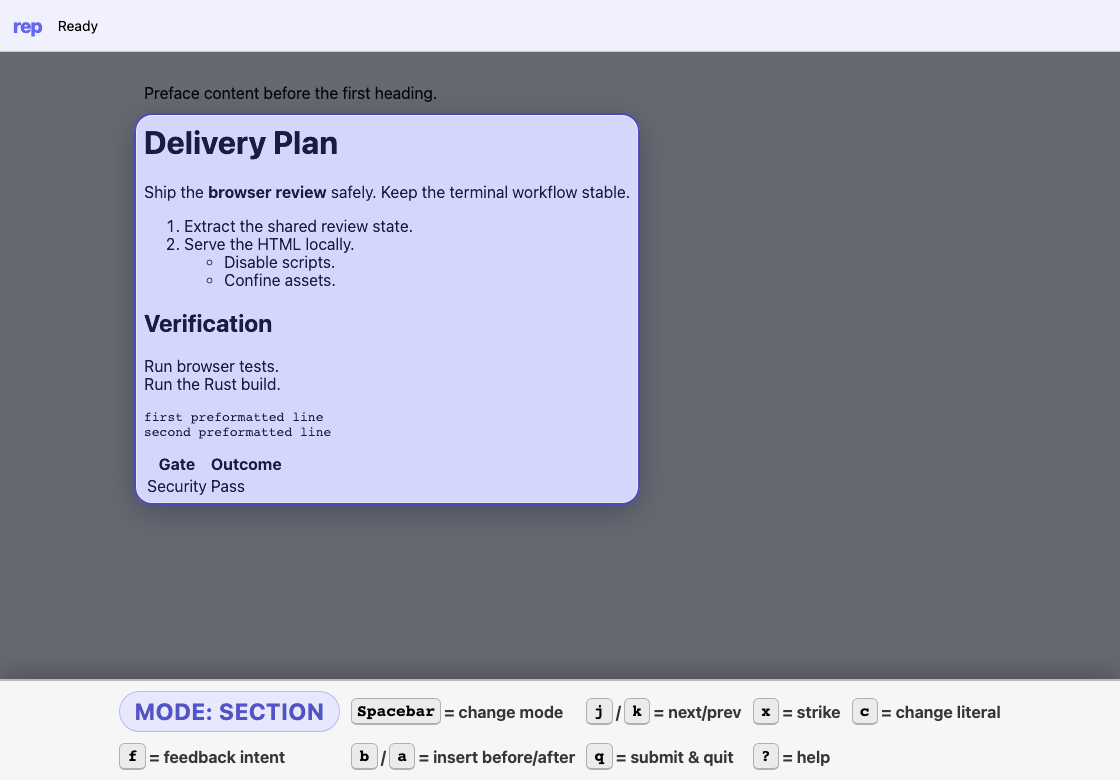
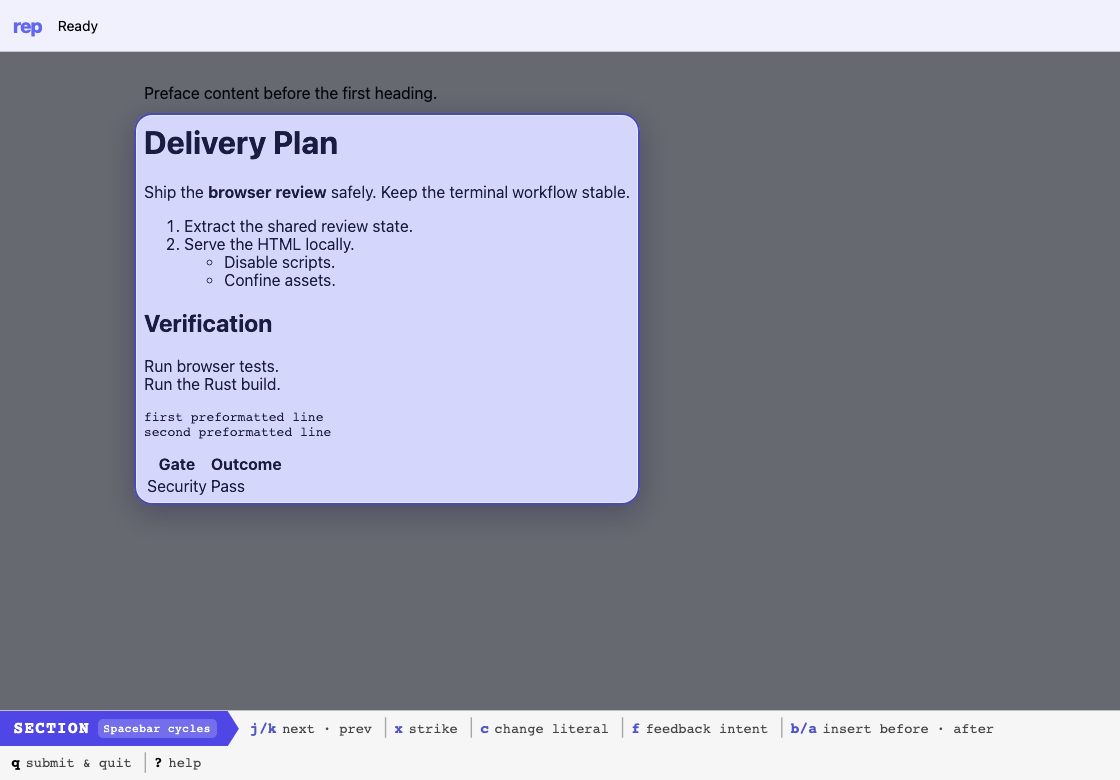
Ship the vi statusline review bar
Replace the review HUD's centred chip grid with design option 03: a
monospace statusline whose solid mode block carries a chevron and the
Spacebar cycle hint, followed by pipe-separated key segments with the
session keys pushed right by a flex spacer.

The mode block recolours per selection unit via a --mode-color token
driven by #review-hud[data-mode], which app.js now mirrors alongside the
mode name. #mode keeps a visually hidden "Mode: " prefix so the polite
live region still announces the full phrase while the block shows only
the unit.

Under 38rem the block goes full width and the segments fall into two
columns. Browser tests move to the new command strings and type floors,
gain mode-colour coverage, and the committed gallery screenshots are
refreshed.

Changed region(s): [[0.0, 0.8615, 1.0, 1.0]]

diff --git a/src/web/app.css b/src/web/app.css
@@ -43,18 +43,20 @@ body {
 }
 
 .mode {
-  background: color-mix(in srgb, #6366f1 15%, Canvas);
-  border: 1px solid color-mix(in srgb, #6366f1 38%, transparent);
-  border-radius: 999px;
-  color: color-mix(in srgb, #6366f1 82%, CanvasText);
-  display: inline-flex;
-  flex: none;
-  font-size: 1.44rem;
+  font-size: 1rem;
   font-weight: 700;
-  letter-spacing: .04em;
+  letter-spacing: .08em;
   line-height: 1.2;
-  padding: .36rem .9rem;
   text-transform: uppercase;
+}
+
+.visually-hidden {
+  clip-path: inset(50%);
+  height: 1px;
+  overflow: hidden;
+  position: absolute;
+  white-space: nowrap;
+  width: 1px;
 }
 
 .status {
@@ -196,25 +198,51 @@ iframe.empty {
 }
 
 .review-hud {
-  align-items: center;
+  --mode-color: #57534e;
+  align-items: stretch;
   backdrop-filter: blur(16px);
   background: color-mix(in srgb, Canvas 94%, transparent);
-  border-top: 2px solid color-mix(in srgb, CanvasText 24%, transparent);
+  border-top: 1px solid color-mix(in srgb, CanvasText 22%, transparent);
   bottom: 0;
-  box-shadow: 0 -.45rem 1.4rem color-mix(in srgb, #000 22%, transparent);
-  display: grid;
-  gap: clamp(.55rem, 1vw, 1rem);
-  grid-template-columns: repeat(5, max-content);
-  justify-content: center;
+  display: flex;
+  flex-wrap: wrap;
+  font-family: ui-monospace, SFMono-Regular, Consolas, monospace;
   left: 0;
-  padding: .65rem max(.65rem, env(safe-area-inset-right, 0px))
-    max(.65rem, env(safe-area-inset-bottom, 0px))
-    max(.65rem, env(safe-area-inset-left, 0px));
+  padding-bottom: env(safe-area-inset-bottom, 0px);
   pointer-events: none;
   position: absolute;
   right: 0;
   white-space: nowrap;
   z-index: 2;
+}
+
+.review-hud[data-mode="section"] { --mode-color: #4f46e5; }
+.review-hud[data-mode="paragraph"] { --mode-color: #0f766e; }
+.review-hud[data-mode="line"] { --mode-color: #b45309; }
+.review-hud[data-mode="sentence"] { --mode-color: #be123c; }
+.review-hud[data-mode="word"] { --mode-color: #6d28d9; }
+
+.review-hud-mode {
+  align-items: center;
+  background: var(--mode-color);
+  clip-path: polygon(0 0, calc(100% - .7rem) 0, 100% 50%, calc(100% - .7rem) 100%, 0 100%);
+  color: #fff;
+  display: flex;
+  flex: none;
+  gap: .5rem;
+  padding: .5rem 1.4rem .5rem .85rem;
+}
+
+.review-hud-cycle {
+  background: rgb(255 255 255 / 22%);
+  border-radius: .3rem;
+  font-size: .7rem;
+  letter-spacing: .04em;
+  padding: .2rem .35rem;
+}
+
+.review-hud-cycle kbd {
+  font: inherit;
 }
 
 .review-hud-commands {
@@ -223,24 +251,41 @@ iframe.empty {
 
 .review-hud-command {
   align-items: center;
-  color: color-mix(in srgb, CanvasText 78%, transparent);
+  color: color-mix(in srgb, #6366f1 82%, CanvasText);
   display: inline-flex;
-  font-size: clamp(.88rem, 1.45vw, 1.15rem);
-  font-weight: 650;
-  gap: .2rem;
+  gap: .35rem;
   line-height: 1.2;
+  padding: .5rem .7rem;
+  position: relative;
 }
 
-.review-hud-command kbd {
-  background: color-mix(in srgb, CanvasText 8%, Canvas);
-  border: 1px solid color-mix(in srgb, CanvasText 25%, transparent);
-  border-bottom-width: 2px;
-  border-radius: .35rem;
+.review-hud-command.is-session {
   color: CanvasText;
-  font: 700 1em/1 ui-monospace, SFMono-Regular, Consolas, monospace;
-  min-width: 1.65rem;
-  padding: .22rem .3rem;
-  text-align: center;
+}
+
+.review-hud-command + .review-hud-command::before {
+  color: color-mix(in srgb, CanvasText 32%, transparent);
+  content: "│";
+  left: -.15rem;
+  position: absolute;
+}
+
+.review-hud-keys {
+  font-size: .92rem;
+  font-weight: 700;
+}
+
+.review-hud-keys kbd {
+  font: inherit;
+}
+
+.review-hud-label {
+  color: color-mix(in srgb, CanvasText 72%, transparent);
+  font-size: .85rem;
+}
+
+.review-hud-spacer {
+  flex: 1 1 2rem;
 }
 
 .completion {
@@ -295,23 +340,30 @@ body.finished .completion:not([hidden]) {
 
 @media (max-width: 38rem) {
   .review-hud {
-    gap: .55rem;
+    display: grid;
     grid-template-columns: repeat(2, minmax(0, 1fr));
-    padding-inline: .75rem;
   }
 
-  .review-hud .mode {
+  .review-hud-mode {
+    clip-path: none;
     grid-column: 1 / -1;
     justify-content: center;
   }
 
-  .review-hud-commands {
-    display: contents;
-  }
-
   .review-hud-command {
-    font-size: .86rem;
+    padding: .35rem .55rem;
     white-space: normal;
   }
 
+  .review-hud-command + .review-hud-command::before {
+    content: none;
+  }
+
+  .review-hud-label {
+    font-size: .78rem;
+  }
+
+  .review-hud-spacer {
+    display: none;
+  }
 }

diff --git a/src/web/app.html b/src/web/app.html
@@ -22,16 +22,19 @@
       tabindex="0"
     ></div>
     <aside id="review-hud" class="review-hud" aria-label="Selection controls">
-      <span class="mode" id="mode" aria-live="polite">Mode: Loading</span>
+      <span class="review-hud-mode">
+        <span class="mode" id="mode" aria-live="polite"><span class="visually-hidden">Mode: </span><span id="mode-name">Loading</span></span>
+        <span class="review-hud-cycle"><kbd>Spacebar</kbd> cycles</span>
+      </span>
       <span class="review-hud-commands">
-        <span class="review-hud-command"><kbd>Spacebar</kbd> = change mode</span>
-        <span class="review-hud-command"><kbd>j</kbd>/<kbd>k</kbd> = next/prev</span>
-        <span class="review-hud-command"><kbd>x</kbd> = strike</span>
-        <span class="review-hud-command"><kbd>c</kbd> = change literal</span>
-        <span class="review-hud-command"><kbd>f</kbd> = feedback intent</span>
-        <span class="review-hud-command"><kbd>b</kbd>/<kbd>a</kbd> = insert before/after</span>
-        <span class="review-hud-command"><kbd>q</kbd> = submit &amp; quit</span>
-        <span class="review-hud-command"><kbd>?</kbd> = help</span>
+        <span class="review-hud-command"><span class="review-hud-keys"><kbd>j</kbd>/<kbd>k</kbd></span> <span class="review-hud-label">next · prev</span></span>
+        <span class="review-hud-command"><span class="review-hud-keys"><kbd>x</kbd></span> <span class="review-hud-label">strike</span></span>
+        <span class="review-hud-command"><span class="review-hud-keys"><kbd>c</kbd></span> <span class="review-hud-label">change literal</span></span>
+        <span class="review-hud-command"><span class="review-hud-keys"><kbd>f</kbd></span> <span class="review-hud-label">feedback intent</span></span>
+        <span class="review-hud-command"><span class="review-hud-keys"><kbd>b</kbd>/<kbd>a</kbd></span> <span class="review-hud-label">insert before · after</span></span>
+        <span class="review-hud-spacer" aria-hidden="true"></span>
+        <span class="review-hud-command is-session"><span class="review-hud-keys"><kbd>q</kbd></span> <span class="review-hud-label">submit &amp; quit</span></span>
+        <span class="review-hud-command is-session"><span class="review-hud-keys"><kbd>?</kbd></span> <span class="review-hud-label">help</span></span>
       </span>
     </aside>
   </main>

diff --git a/src/web/app.js b/src/web/app.js
@@ -6,7 +6,8 @@ import {
 
 const root = new URL(".", window.location.href);
 const status = document.querySelector("#status");
-const mode = document.querySelector("#mode");
+const hud = document.querySelector("#review-hud");
+const modeName = document.querySelector("#mode-name");
 const frame = document.querySelector("#plan");
 const interactionLayer = document.querySelector("#interaction-layer");
 const completion = document.querySelector("#completion");
@@ -91,9 +92,9 @@ function renderState(next, scroll = true) {
   state = next;
   const empty = next.status === "empty";
   frame.classList.toggle("empty", empty);
-  mode.textContent = `Mode: ${
-    next.mode || (empty ? "No selection" : "Loading")
-  }`;
+  const unit = next.mode || (empty ? "No selection" : "Loading");
+  modeName.textContent = unit;
+  hud.dataset.mode = unit;
   setStatus(readyStatus(next));
   overlay?.paint(
     next.selection || [],

diff --git a/README.md b/README.md
@@ -63,9 +63,11 @@ rep --web --no-open plan.html
 Rep prints the authenticated loopback URL to stderr. Keep the foreground
 process running, open that exact URL, and press `q` then confirm to send the
 review, or press `Q` to discard it silently. The page acknowledges the handoff
-and attempts to close itself. A large, full-width HUD stays visible at the
-bottom of the review, labels the current `Mode:`, and shows `Spacebar` to
-change mode alongside the `q` completion and `?` help shortcuts. One tinted,
+and attempts to close itself. A full-width statusline stays visible at the
+bottom of the review: a solid mode block, tinted per selection unit, names the
+current mode and carries the `Spacebar` cycle hint, and monospace segments to
+its right list every binding including the `q` completion and `?` help
+shortcuts. One tinted,
 rounded focus region encloses the current selection while the rest of the plan
 is dimmed. `--debug` validates and describes an HTML launch without binding a
 server or opening a browser.

diff --git a/docs/release-checklist.md b/docs/release-checklist.md
@@ -46,9 +46,10 @@ Linux. Chromium is covered by the automated gate.
       across the five selection units.
 - [ ] Resize and scroll; confirm selection and annotation overlays stay aligned
       without changing the plan DOM layout.
-- [ ] Confirm the large full-width bottom bar remains pinned and legible,
-      prefixes the active selection with `Mode:`, and wraps without horizontal
-      overflow at narrow viewport widths.
+- [ ] Confirm the full-width bottom statusline remains pinned and legible, that
+      its mode block names the active selection unit and changes colour with it,
+      and that the segments wrap without horizontal overflow at narrow viewport
+      widths.
 - [ ] Confirm the active selection fill, border, halo, and leading focus bar
       remain legible over both light and dark plan colors, while annotation
       patterns and badges remain distinguishable.
